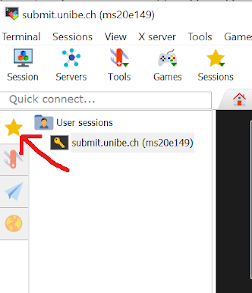
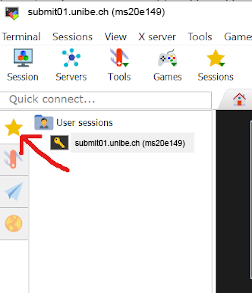
Document new login procedure

Changed region(s): [[0.2778, 0.4608, 0.7778, 0.5222], [0.0833, 0.0307, 0.6667, 0.0614]]

diff --git a/docs/file-system/file-transfer.md b/docs/file-system/file-transfer.md
@@ -12,7 +12,7 @@ You can use different protocols/programs for transferring files from/to the clus
     The following commands are from on your local workstation as indicated by "local$"
 
 !!! types note ""
-    If you have customized your SSH environment as described here, you can substitute your host alias for <username>@submit.unibe.ch in the following commands
+    If you have customized your SSH environment as described here, you can substitute your host alias for <user>@submit03.unibe.ch in the following commands
 
 
 ## Secure Copy (SCP) - Mac/Linux
@@ -33,16 +33,16 @@ SCP performs a plain linear copy of the specified files, while replacing already
 Copy the file `~/dir/file01` to your remote home directory:
 
 ```Bash
-$ scp ~/dir/file01 <username>@submit.unibe.ch:
+$ scp ~/dir/file01 <user>@submit03.unibe.ch:
 ```
 
 Copy multiple files to the remote directory `~/bar`:
 
 !!! types note ""
-    The destination directory must already exist. You can create a directory from remote with: ssh <username>@submit.unibe.ch 'mkdir -p ~/bar'
+    The destination directory must already exist. You can create a directory from remote with: ssh <user>@submit03.unibe.ch 'mkdir -p ~/bar'
 
 ```Bash
-$ scp ~/dir/file01 ~/dir/file02 ~/dir/file03 <username>@submit.unibe.ch:bar
+$ scp ~/dir/file01 ~/dir/file02 ~/dir/file03 <user>@submit03.unibe.ch:bar
 ```
 
 Copy all files within directory `~/dir` to the remote directory `~/bar`:
@@ -51,7 +51,7 @@ Copy all files within directory `~/dir` to the remote directory `~/bar`:
     Add the -r option (recursive) to also copy all subdirectories of ~/dir
 
 ```Bash
-$ scp -r ~/dir/* <username>@submit.unibe.ch:bar
+$ scp -r ~/dir/* <user>@submit03.unibe.ch:bar
 ```
 
 Copy the directory `~/dir` to your remote home directory:
@@ -60,7 +60,7 @@ Copy the directory `~/dir` to your remote home directory:
     This will create a new directory ~/dir on the remote host. If the directory ~/dir already exists, the following command adds the content of the source directory to the destination directory
 
 ```Bash
-$ scp -r ~/dir <username>@submit.unibe.ch:
+$ scp -r ~/dir <user>@submit03.unibe.ch:
 ```
 
 ### Copying Files from UBELIX to Your Local Workstation
@@ -68,7 +68,7 @@ $ scp -r ~/dir <username>@submit.unibe.ch:
 Copy the remote file `~/bar/file01` to the current working directory on your local workstation:
 
 ```Bash
-$ scp <username>@submit.unibe.ch:bar/file01 .
+$ scp <user>@submit03.unibe.ch:bar/file01 .
 ```
 
 
@@ -78,13 +78,13 @@ Copy multiple remote files to the local directory `~/dir`:
     The local directory ~/dir will be automatically created if it does not already exist
 
 ```Bash
-$ scp <username>@submit.unibe.ch:bar/\{file02,file03,file04\} ~/dir
+$ scp <user>@submit03.unibe.ch:bar/\{file02,file03,file04\} ~/dir
 ```
 
 Copy the remote directory `~/bar` to the current working directory on your local workstation:
 
 ```Bash
-$ scp -r <username>@submit.unibe.ch:bar .
+$ scp -r <user>@submit03.unibe.ch:bar .
 ```
 
 ## Remote Sync (Rsync) - Mac/Linux
@@ -109,13 +109,13 @@ Among other things, Rsync also allows you to specify complex filter rules to exc
 Copy the file `~/dir/file01` to your remote home directory:
 
 ```Bash
-$ rsync ~/dir/file01 <username>@submit.unibe.ch:
+$ rsync ~/dir/file01 <user>@submit03.unibe.ch:
 ```
 
 Copy multiple files to your remote home directory:
 
 ```Bash
-$ rsync file01 file02 file03 <username>@submit.unibe.ch:
+$ rsync file01 file02 file03 <user>@submit03.unibe.ch:
 ```
 
 Copy the local directory ~/dir to the remote directory ~/bar:
@@ -124,7 +124,7 @@ Copy the local directory ~/dir to the remote directory ~/bar:
     With a trailing slash (/) after the source directory only the content of the source directory is copied to the destination directory. Without a trailing slash both the source directory and the content of the directory are copied to the destination directory
 
 ```Bash
-$ rsync -az ~/dir/ <username>@submit.unibe.ch:bar
+$ rsync -az ~/dir/ <user>@submit03.unibe.ch:bar
 ```
 
 ### Copying Files from UBELIX to Your Local Workstation
@@ -132,13 +132,13 @@ $ rsync -az ~/dir/ <username>@submit.unibe.ch:bar
 Copy the remote file `~/foo/file01` to your current working directory:
 
 ```Bash
-$ rsync <username>@submit.unibe.ch:foo/file01 .
+$ rsync <user>@submit03.unibe.ch:foo/file01 .
 ```
 
 Copy the remote files `~/foo/file01` and `~/bar/file02` to your the local directory `~/dir`:
 
 ```Bash
-$ rsync <username>@submit.unibe.ch:\{foo/file01,bar/file02\} ~/dir
+$ rsync <user>@submit03.unibe.ch:\{foo/file01,bar/file02\} ~/dir
 ```
 
 Copy the remote directory `~/foo` to the local directory `~/dir`:
@@ -147,7 +147,7 @@ Copy the remote directory `~/foo` to the local directory `~/dir`:
     With a trailing slash (/) after the source directory only the content of the source directory is copied to the destination directory. Without a trailing slash both the source directory and the content of the directory are copied to the destination directory.
 
 ```Bash
-$ rsync -az <username>@submit.unibe.ch:foo/ ~/dir
+$ rsync -az <user>@submit03.unibe.ch:foo/ ~/dir
 ```
 
 ### Including/Excluding Files
@@ -160,13 +160,13 @@ With the `--include`/`--exclude` options you can specify patterns, that describe
 Exclude a specific directory:
 
 ```Bash
-rsync -av --exclude "subdir1" ~/dir/ <username>@submit.unibe.ch:
+rsync -av --exclude "subdir1" ~/dir/ <user>@submit03.unibe.ch:
 ```
 
 Copy only files with suffix `.txt` and `.m`:
 
 ```Bash
-rsync -av --include "*.txt" --include "*.m" --exclude "*" ~/dir/ <username>@submit.unibe.ch:
+rsync -av --include "*.txt" --include "*.m" --exclude "*" ~/dir/ <user>@submit03.unibe.ch:
 ```
 
 Copy all files with suffix `.m` within the source directory `~/dir` (including matching files within subdirectories) to the remote destination directory `~/foo`:
@@ -175,7 +175,7 @@ Copy all files with suffix `.m` within the source directory `~/dir` (including m
     Use the `--prune-empty-dirs` option to omit copying empty directories
 
 ```Bash
-$ rsync -av --prune-empty-dirs --include "*/" --include "*.m" --exclude "*" ~/dir/ <username>@submit.unibe.ch:foo
+$ rsync -av --prune-empty-dirs --include "*/" --include "*.m" --exclude "*" ~/dir/ <user>@submit03.unibe.ch:foo
 ```
 
 
@@ -190,13 +190,13 @@ $ rsync -av --prune-empty-dirs --include "*/" --include "*.m" --exclude "*" ~/di
 Use the `--delete` option to delete files/directories from the destination directory that are not/no more present in the source directory:
 
 ```Bash
-$ rsync -av --delete ~/dir/ <username>@submit.unibe.ch:mfiles
+$ rsync -av --delete ~/dir/ <user>@submit03.unibe.ch:mfiles
 ```
 
 With the `--delete-excluded` option you can additionally delete files from the destination directory that are excluded from transferring/syncing (not in the generated file list):
 
 ```Bash
-$ rsync -av --prune-empty-dirs --delete-excluded --include "*/" --include "*.m" --exclude "*" ~/dir/ <username>@submit.unibe.ch:foo
+$ rsync -av --prune-empty-dirs --delete-excluded --include "*/" --include "*.m" --exclude "*" ~/dir/ <user>@submit03.unibe.ch:foo
 ```
 
 

diff --git a/docs/quick-start.md b/docs/quick-start.md
@@ -20,12 +20,13 @@ For an introduction to HPC Workspaces see [Workspace Overview](hpc-workspaces/wo
 
 ## Login
 
-To connect to the cluster, you must log in to the **submit host** from **inside the university network** (e.g. from a workstation on the campus). If you want to connect from a remote location (e.g. from your computer at home) you must first establish a **VPN** connection to get access to the university network. To connect from a UNIX-like system (Linux, Mac OS X, MobaXterm on Windows) simply use a secure shell (SSH) to log in to the submit host:
+To connect to the cluster, you must log in to a **login node** from **inside the university network** (e.g. from a workstation on the campus). If you want to connect from a remote location (e.g. from your computer at home) you must first establish a **VPN** connection to get access to the university network. To connect from a UNIX-like system (Linux, Mac OS X, MobaXterm on Windows) simply use a secure shell (SSH) to log in to a login node. There are four login nodes (submit[01-04].unibe.ch), you can pick any one:
 
 ```bash
-ssh <username>@submit.unibe.ch
+# here we choose submit03.unibe.ch as our login node
+ssh <username>@submit03.unibe.ch
 # the following is equivalent
-ssh -l <username> submit.unibe.ch
+ssh -l <username> submit03.unibe.ch
 ```
 
 ## Welcome `$HOME`
@@ -48,13 +49,13 @@ pwd
 At some point, you will probably need to copy files between your local computer and the cluster. There are different ways to achieve this, depending on your local operating system (OS). To copy a file **from your local computer** running a UNIX-like OS use the secure copy command `scp` on your local workstation:
 
 ```bash
-scp /path/to/file <username>@submit.unibe.ch:/path/to/target_dir/
+scp /path/to/file <username>@submit03.unibe.ch:/path/to/target_dir/
 ```
 
 To copy a file from the cluster to your local computer running a UNIX-like OS also use the secure copy command `scp` on your local workstation:
 
 ```bash
-scp <username>@submit.unibe.ch:/path/to/file /path/to/target_dir/
+scp <username>@submit03.unibe.ch:/path/to/file /path/to/target_dir/
 ```
 
 More information about file transfer can be found on the page [File Transfer to/from UBELIX](file-system/file-transfer.md).
@@ -109,8 +110,8 @@ The [Software](software/hpc-modules.md) section is dedicated to this topic. More
 
 Doing useful computations consists of running commands that work on data and generate a result. These computations are resource-intensive. That is what
 the compute nodes are there for. These over 300 servers do the heavy lifting as soon as resources are free for you. Currently you are on a submit server
-also known as login server. This server is for preparing the computations, i.e. downloading data, writing a job script, prepare some data etc. But
-**you mustn't run computations on submit nodes** as the server is quite a weak machines that you are sharing with others. So, you have to bring the
+also known as login node. This server is for preparing the computations, i.e. downloading data, writing a job script, prepare some data etc. But
+**you are not allowed to run computations on login nodes** as those servers are quite a weak machines that you are sharing with others. So, you have to bring the
 computations to the compute nodes - by generating a job script and sending it to the cluster.
 
 !!! hint "Working interactively on a compute node"

diff --git a/docs/getting-Started/login-ssh.md b/docs/getting-Started/login-ssh.md
@@ -18,20 +18,29 @@ This page contains information on how to configure your SSH environment for a si
 !!! types caution "Requirement"
     Login to UBELIX is only possible from within the UniBE network. If you want to connect from outside, you must first establish a VPN connection. For VPN profiles and instructions see [the official tutorial](http://www.unibe.ch/university/campus_and_infrastructure/rund_um_computer/internetzugang/access_to_internal_resources_via_vpn/index_eng.html).
 
+!!! types note "Login nodes"
+    There are four login nodes in UBELIX:
+
+    - submit01.unibe.ch
+    - submit02.unibe.ch
+    - submit03.unibe.ch
+    - submit04.unibe.ch
+
+    To log in to UBELIX, you can choose any one. If the load on a login node is high, you can log out and pick another one. When using a terminal multiplexer like tmux or screen, you can directly log in to the login node where your tmux/screen session is running.
 
 ### Mac/Linux/Unix
 
-Run the following commands in a terminal. Open an SSH connection to the submit host:
+Run the following commands in a terminal. Open an SSH connection to :
 
 ```Bash
-$ ssh <username>@submit.unibe.ch
+$ ssh <user>@submit03.unibe.ch
 OR
-$ ssh -l <username> submit.unibe.ch
+$ ssh -l <user> submit03.unibe.ch
 ```
 At the password prompt enter your Campus Account password:
 
 ```Bash
-$ ssh <username>@submit.unibe.ch
+$ ssh <user>@submit03.unibe.ch
 Password:
 ```
 
@@ -41,14 +50,16 @@ Password:
 After log in successfully you will see the welcome message and the command prompt:
 
 ```Bash
-Last login: Tue Apr 21 16:17:26 2020
+Last login: Mon Aug 15 10:22:09 2022 from 130.92.8.162
 
-CentOS 7.7.1908.x86_64
+CentOS 7.9.2009.x86_64
 
-FQDN:      submit01.ubelix.unibe.ch (10.1.129.21)
-Processor: 24x Intel(R) Xeon(R) CPU E5-2630 v2 @ 2.60GHz
-Kernel:    3.10.0-1062.9.1.el7.x86_64
-Memory:    62.73 GiB
+FQDN:      submit03.ubelix.unibe.ch (10.1.129.23)
+Processor: 128x AMD EPYC 7742 64-Core Processor
+Kernel:    3.10.0-1160.62.1.el7.x86_64
+Memory:    125.67 GiB
+
+[user@submit03 ~]$
 ```
 
 !!! type note "Customize your SSH session"
@@ -65,7 +76,7 @@ After installing and starting MobaXterm, a SSH session need to be configured:
  * Click 'Session' in the top left corner:
  ![MobaXterm Start](../images/mobaXterm_01_start.png "MobaXterm Start")
  * In "SSH" tab:
-     - Set the remote host to submit.unibe.ch
+     - Set the remote host to a login node, e.g. submit01.unibe.ch
      -  Enable the "Specify username" option and put your Campus Account short name in the corresponding box (here user ms20e149 will be used)
  * In the "Advanced SSH settings"
      - Set SSH-browser type to 'SCP (enhanced speed)'

diff --git a/docs/getting-Started/ssh-customization.md b/docs/getting-Started/ssh-customization.md
@@ -13,8 +13,8 @@ To simplify the login procedure you can define an alias for the user-/hostname c
 **~/.ssh/config**
 ```Bash
 Host <alias>
-    Hostname submit.unibe.ch
-    User <username>
+    Hostname submit03.unibe.ch
+    User <user>
 ```
 
 From now on you can log in to the cluster by using the specified alias:
@@ -39,8 +39,8 @@ The host declaration may now look like this:
 **~/.ssh/config**
 ```Bash
 Host <alias>
-    Hostname submit.unibe.ch
-    User <username>
+    Hostname submit03.unibe.ch
+    User <user>
     ServerAliveInterval 60
 ```
 
@@ -95,8 +95,8 @@ Add the key to your host declaration in your local ssh configuration:
 **~/.ssh/config**
 ```Bash
 Host <alias>
-    Hostname submit.unibe.ch
-    User <username>
+    Hostname submit03.unibe.ch
+    User <user>
     ServerAliveInterval 60
     IdentityFile ~/.ssh/id_rsa_ubelix
 ```
@@ -138,7 +138,7 @@ Some application like JupyterLab require port forwarding, where a port on the re
 The ssh command need to be called with additional arguments:
 
 ```Bash
-ssh -Y -L 15051:localhost:15051 submit.unibe.ch
+ssh -Y -L 15051:localhost:15051 submit03.unibe.ch
 ```
 
 Here port 15051 is selected for both sides. Ports are numbers between 2000 and 65000, which needs to be unique on the present machine. The default port for JupyterLab is 8888, but only one user can use this port on the machine at a time.

diff --git a/docs/getting-Started/ubelix-overview.md b/docs/getting-Started/ubelix-overview.md
@@ -13,7 +13,7 @@ The HPCs can only be reached within the UniBE network. User landing point are th
 
 ### Login node aka. Submit node
 
-A user connects to the cluster by logging into the **submit** host via SSH. You can use this host for medium-performance tasks, e.g. to edit files or to compile smaller programs. **Resource-demanding/high-performance tasks must be submitted** to the batch queuing system as jobs, and will finally run on one or multiple compute nodes. Even long running compile tasks should be submitted as a job on a compute node instead of running it on the submit host. 
+A user connects to the cluster by logging into a login node via SSH. You can use this host for medium-performance tasks, e.g. to edit files or to compile smaller programs. **Resource-demanding/high-performance tasks must be submitted** to the batch queuing system as jobs, and will finally run on one or multiple compute nodes. Even long running compile tasks should be submitted as a job on a compute node instead of running it directly on a login node. 
 
 ### SLURM Batch-Queueing System
 

diff --git a/docs/code-of-conduct.md b/docs/code-of-conduct.md
@@ -76,9 +76,8 @@ while others help to reduce the amount of support time needed to allocate.
 
 ## Cluster Performance
 
-  * **DO NOT** run resource-intensive computations directly on the login node AKA submit node. This
+  * **DO NOT** run resource-intensive computations directly on the login nodes AKA submit nodes. This
   will have a negative impact on the performance of the whole cluster. Instead, generate a job script
   that carries out the computations and submit this job script to the cluster using sbatch.
-  * **DO NOT** run server applications (PostgreSQL server, web server, ...) on the front-end 
-  server (submit hosts). Such a program usually run as a background process (daemon) rather
+  * **DO NOT** run server applications (PostgreSQL server, web server, ...) on the login nodes. Such a program usually run as a background process (daemon) rather
   than being under the direct control of an interactive user. We will immediately kill such processes.

diff --git a/docs/software/ParaView.md b/docs/software/ParaView.md
@@ -15,7 +15,7 @@ Furthermore, the local (on your local machine) ParaView version need to match th
 First, as mentioned, establish a SSH session with [Port forwarding](../getting-Started/ssh-customization.md#port-forwarding), another port in the range [2000-65000] should be selected: 
 
 ```Bash
-ssh -Y -L 15051:localhost:15051 submit.unibe.ch
+ssh -Y -L 15051:localhost:15051 submit03.unibe.ch
 ```
 
 Then load the modules:

diff --git a/docs/general/news.md b/docs/general/news.md
@@ -1,5 +1,9 @@
 # News
 
+11-08-2022:
+
+- added two additional login nodes to the cluster
+
 04-05-2021: 
 
 - major SLUM partition restructure, see [Slurm partitions](../slurm/partitions.md). Job scripts may need to be adapted.
